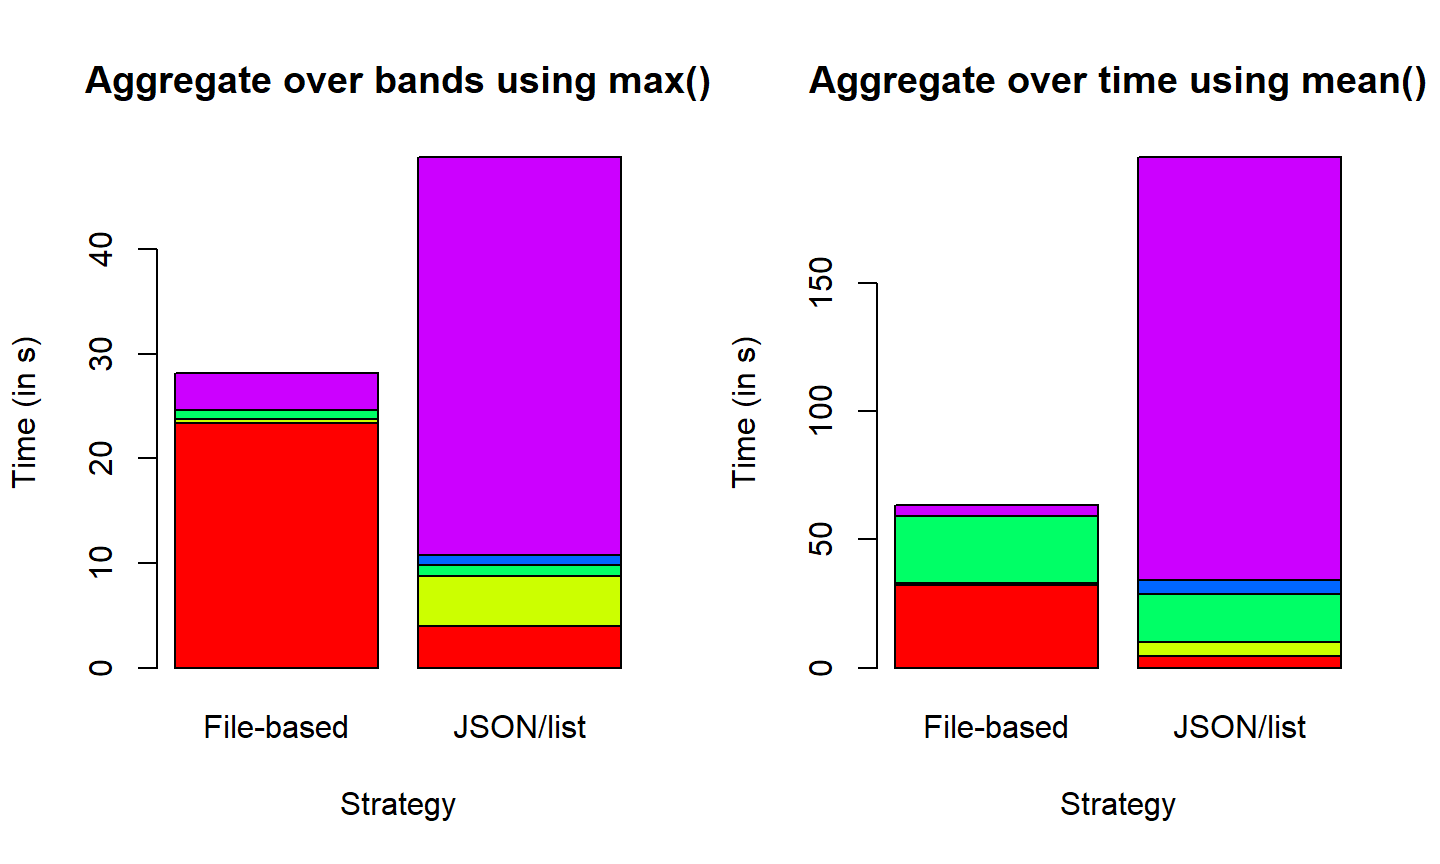
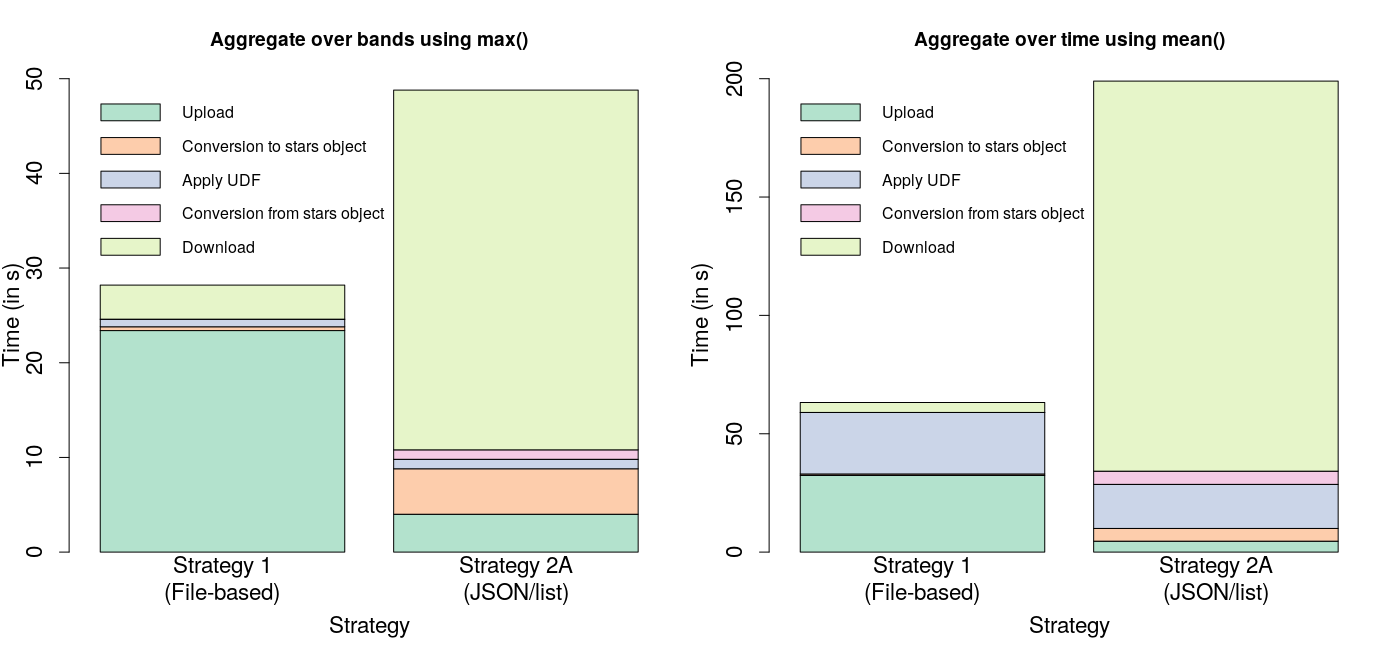
uploaded corrected timing figures

diff --git a/docs/index.html b/docs/index.html
@@ -121,7 +121,7 @@
 <div id="architecture" class="section level3">
 <h3 class="hasAnchor">
 <a href="#architecture" class="anchor"></a>Architecture</h3>
-<p><img src="reference/figures/openeo_github.png" width="700px"></p>
+<p><img src="reference/figures/openeo_github.png" width="1000px"></p>
 <p>In the openEO API, the different clients interact with the different backends through the openEO API which acts as a common language understood by both the clients and the backends. The UDF service is not accessible to the clients directly but only through the backends and hence the UDF service’s internal operations are abstracted to the user.</p>
 </div>
 </div>
@@ -181,7 +181,7 @@
 <h3 class="hasAnchor">
 <a href="#strategies" class="anchor"></a>Strategies</h3>
 <p>This R package has implemented 4 strategies for the R UDF service. All of these involve converting the incoming data to a <code>stars</code> object before applying the UDF function. An overview of these strategies is shown in the figure below.</p>
-<p><img src="reference/figures/strategies.png" width="700px"></p>
+<p><img src="reference/figures/strategies.png" width="1000px"></p>
 <ul>
 <li>
 <strong>Strategy 1</strong> implements the R UDF service as a part of the back-end with data being transmitted as binary GeoTIFF files along with a CSV file acting as a look-up table containing information on which image corresponds to which time, band etc. along with some additional information. These are converted to a <code>stars</code> object and exposed to the UDF as a list.</li>
@@ -200,8 +200,11 @@
 <p>Out of the strategies mentioned above, Strategy 1 is ultimately trivial since it does not offer a RESTful API. Therefore, although, faster than some of the other implementations, it is not practical in the context of openEO. Strategy 2A offers a REST interface, but as it exposes only a list of numbers (representing pixel values) to the UDF, the functionality of this strategy is limited to simple operations (e.g. aggregation over time, band etc.), similar to Strategy 1.</p>
 <p>Strategy 2B exposes the whole <code>stars</code> object to the UDF, but as the EO data has to converted from ASCII JSON arrays from the incoming POST request to binary objects and reconverted to JSON arrays from binary objects while sending the response back, it is rather slow. Strategy 3 overcomes this limitation by sending the data as a base64 encoded string representing binary GeoTIFF files and offers a much faster turnaround time for running an UDF. Furthermore, this strategy allows users to install and use any R package (from Github, CRAN etc.) in his/her UDF and also load data from online sources, therefore allowing a lot of freedom and flexibility for the user. Now, auxilliary data in the form of files/directories can also be passed from the backend to the UDF service (for Strategy 3 only) by putting the data in a directory named <code>/data</code> in the ZIP file that is passed on as a base64 encoded string. These files are made available to the UDF script locally (in the same working directory).</p>
 <p>Here are some test results for operations on a timeseries (3 timesteps with a temporal resolution of ~10 days) of spatially subsetted (300*300px) Sentinel-2 images containing 13 bands each illustrating the performance.</p>
-<p>Aggregation over bands (using <code><a href="https://www.rdocumentation.org/packages/base/topics/Extremes">max()</a></code>) and time (using <code><a href="https://www.rdocumentation.org/packages/base/topics/mean">mean()</a></code>) using Strategy 1 and 2A <img src="reference/figures/s1v2a.png" width="700px"></p>
-<p>Reprojection (using <code><a href="https://www.rdocumentation.org/packages/stars/topics/st_warp">stars::st_warp()</a></code>) and Unsupervised Classification (using <code><a href="https://www.rdocumentation.org/packages/RStoolbox/topics/unsuperClass">RStoolbox::unsuperClass()</a></code>) using Strategy 2B and 3 <img src="reference/figures/s2bv3.png" width="700px"><img src="reference/figures/s_legend.jpeg" width="200px"></p>
+<p>Aggregation over bands (using <code><a href="https://www.rdocumentation.org/packages/base/topics/Extremes">max()</a></code>) and time (using <code><a href="https://www.rdocumentation.org/packages/base/topics/mean">mean()</a></code>) using Strategy 1 and 2A <img src="reference/figures/s1v2a.png" width="1000px"></p>
+<p>Calculation of NDVI, Reprojection (using <code><a href="https://www.rdocumentation.org/packages/stars/topics/st_warp">stars::st_warp()</a></code>) and Unsupervised Classification (using <code><a href="https://www.rdocumentation.org/packages/RStoolbox/topics/unsuperClass">RStoolbox::unsuperClass()</a></code>) using Strategy 2B</p>
+<p><img src="reference/figures/s2b.png" width="1000px"></p>
+<p>Calculation of NDVI, Reprojection (using <code><a href="https://www.rdocumentation.org/packages/stars/topics/st_warp">stars::st_warp()</a></code>) and Unsupervised Classification (using <code><a href="https://www.rdocumentation.org/packages/RStoolbox/topics/unsuperClass">RStoolbox::unsuperClass()</a></code>) using Strategy 3</p>
+<p><img src="reference/figures/s3.png" width="1000px"></p>
 <p>Further details regarding these strategies and their implementations may be found on these <a href="https://pramitghosh.github.io/slides/defense_25-1.html">slides</a> and in <a href="https://www.researchgate.net/publication/330533820_Running_user-defined_functions_in_R_on_Earth_observation_data_in_cloud_back-ends">Ghosh et al., 2018</a>.</p>
 </div>
 <div id="testing" class="section level3">

diff --git a/docs/articles/web-based_base64.html b/docs/articles/web-based_base64.html
@@ -90,7 +90,7 @@
       <h1>RESTful UDF service using base64 encoded string (Strategy 3)</h1>
                         <h4 class="author">Pramit Ghosh</h4>
             
-            <h4 class="date">2019-03-18</h4>
+            <h4 class="date">2019-04-05</h4>
       
       <small class="dont-index">Source: <a href="https://github.com/Open-EO/openeo-r-udf/blob/master/vignettes/web-based_base64.Rmd"><code>vignettes/web-based_base64.Rmd</code></a></small>
       <div class="hidden name"><code>web-based_base64.Rmd</code></div>

diff --git a/docs/articles/web-based_JSON.html b/docs/articles/web-based_JSON.html
@@ -90,7 +90,7 @@
       <h1>RESTful UDF service using JSON arrays (Strategies 2A &amp; 2B)</h1>
                         <h4 class="author">Pramit Ghosh</h4>
             
-            <h4 class="date">2019-03-18</h4>
+            <h4 class="date">2019-04-05</h4>
       
       <small class="dont-index">Source: <a href="https://github.com/Open-EO/openeo-r-udf/blob/master/vignettes/web-based_JSON.Rmd"><code>vignettes/web-based_JSON.Rmd</code></a></small>
       <div class="hidden name"><code>web-based_JSON.Rmd</code></div>

diff --git a/docs/articles/openEO.R.UDF.html b/docs/articles/openEO.R.UDF.html
@@ -90,7 +90,7 @@
       <h1>Getting started with openEO.R.UDF</h1>
                         <h4 class="author">Pramit Ghosh</h4>
             
-            <h4 class="date">2019-03-18</h4>
+            <h4 class="date">2019-04-05</h4>
       
       <small class="dont-index">Source: <a href="https://github.com/Open-EO/openeo-r-udf/blob/master/vignettes/openEO.R.UDF.Rmd"><code>vignettes/openEO.R.UDF.Rmd</code></a></small>
       <div class="hidden name"><code>openEO.R.UDF.Rmd</code></div>

diff --git a/docs/articles/file-based.html b/docs/articles/file-based.html
@@ -90,7 +90,7 @@
       <h1>File-based UDF service (Strategy 1)</h1>
                         <h4 class="author">Pramit Ghosh</h4>
             
-            <h4 class="date">2019-03-18</h4>
+            <h4 class="date">2019-04-05</h4>
       
       <small class="dont-index">Source: <a href="https://github.com/Open-EO/openeo-r-udf/blob/master/vignettes/file-based.Rmd"><code>vignettes/file-based.Rmd</code></a></small>
       <div class="hidden name"><code>file-based.Rmd</code></div>

diff --git a/README.md b/README.md
@@ -98,11 +98,12 @@ Here are some test results for operations on a timeseries (3 timesteps with a te
 
 Aggregation over bands (using `max()`) and time (using `mean()`) using Strategy 1 and 2A
 ![Aggregation operations using Strategy 1 and 2A](https://github.com/Open-EO/openeo-r-udf/blob/master/data/s1v2a.png)
-Reprojection (using `stars::st_warp()`) and Unsupervised Classification (using `RStoolbox::unsuperClass()`) using Strategy 2B and 3
-![Reprojection and Unsupervised Classification using Strategy 2B and 3](https://github.com/Open-EO/openeo-r-udf/blob/master/data/s2bv3.png)
-![Legend](https://github.com/Open-EO/openeo-r-udf/blob/master/data/s_legend.jpeg)
+Calculation of NDVI, CRS transformation (using `stars::st_warp()`) and Unsupervised Classification (using `RStoolbox::unsuperClass()`) using Strategy 2B
+![Calculation of NDVI, Reprojection and Unsupervised Classification using Strategy 2B](https://github.com/Open-EO/openeo-r-udf/blob/master/data/s2b.png)
+Calculation of NDVI, CRS transformation (using `stars::st_warp()`) and Unsupervised Classification (using `RStoolbox::unsuperClass()`) using Strategy 3
+![Calculation of NDVI, Reprojection and Unsupervised Classification using Strategy 3](https://github.com/Open-EO/openeo-r-udf/blob/master/data/s3.png)
 
-Further details regarding these strategies and their implementations may be found on these [slides](https://pramitghosh.github.io/slides/defense_25-1.html) and in [Ghosh et al., 2018](https://www.researchgate.net/publication/330533820_Running_user-defined_functions_in_R_on_Earth_observation_data_in_cloud_back-ends).
+Further details regarding these strategies and their implementations may be found on these [slides](https://pramitghosh.github.io/slides/defense_25-1.html) and in [Ghosh et al. (2018)](https://www.researchgate.net/publication/330533820_Running_user-defined_functions_in_R_on_Earth_observation_data_in_cloud_back-ends).
 
 ### Testing
 Examples of HTTP POST bodies (as JSONs) for strategies 2A, 2B and 3 can be found in [pramitghosh/openeo-r-udf-examples](https://github.com/pramitghosh/openeo-r-udf-examples). Manuals on how to do that is available on the Wiki.
